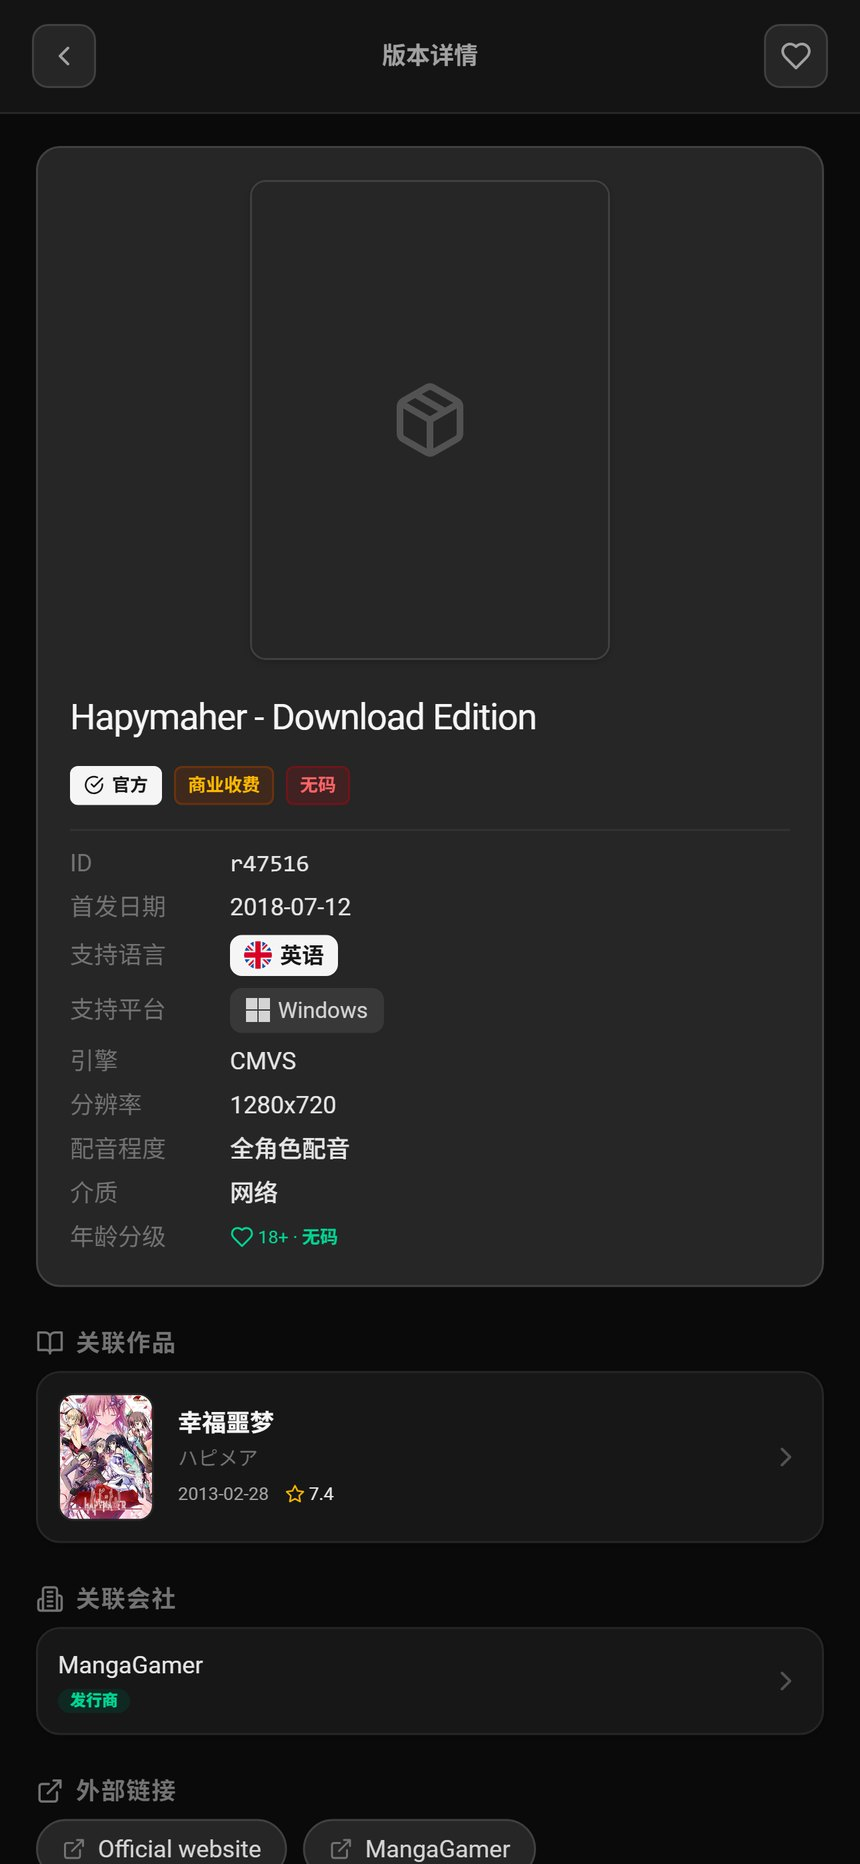
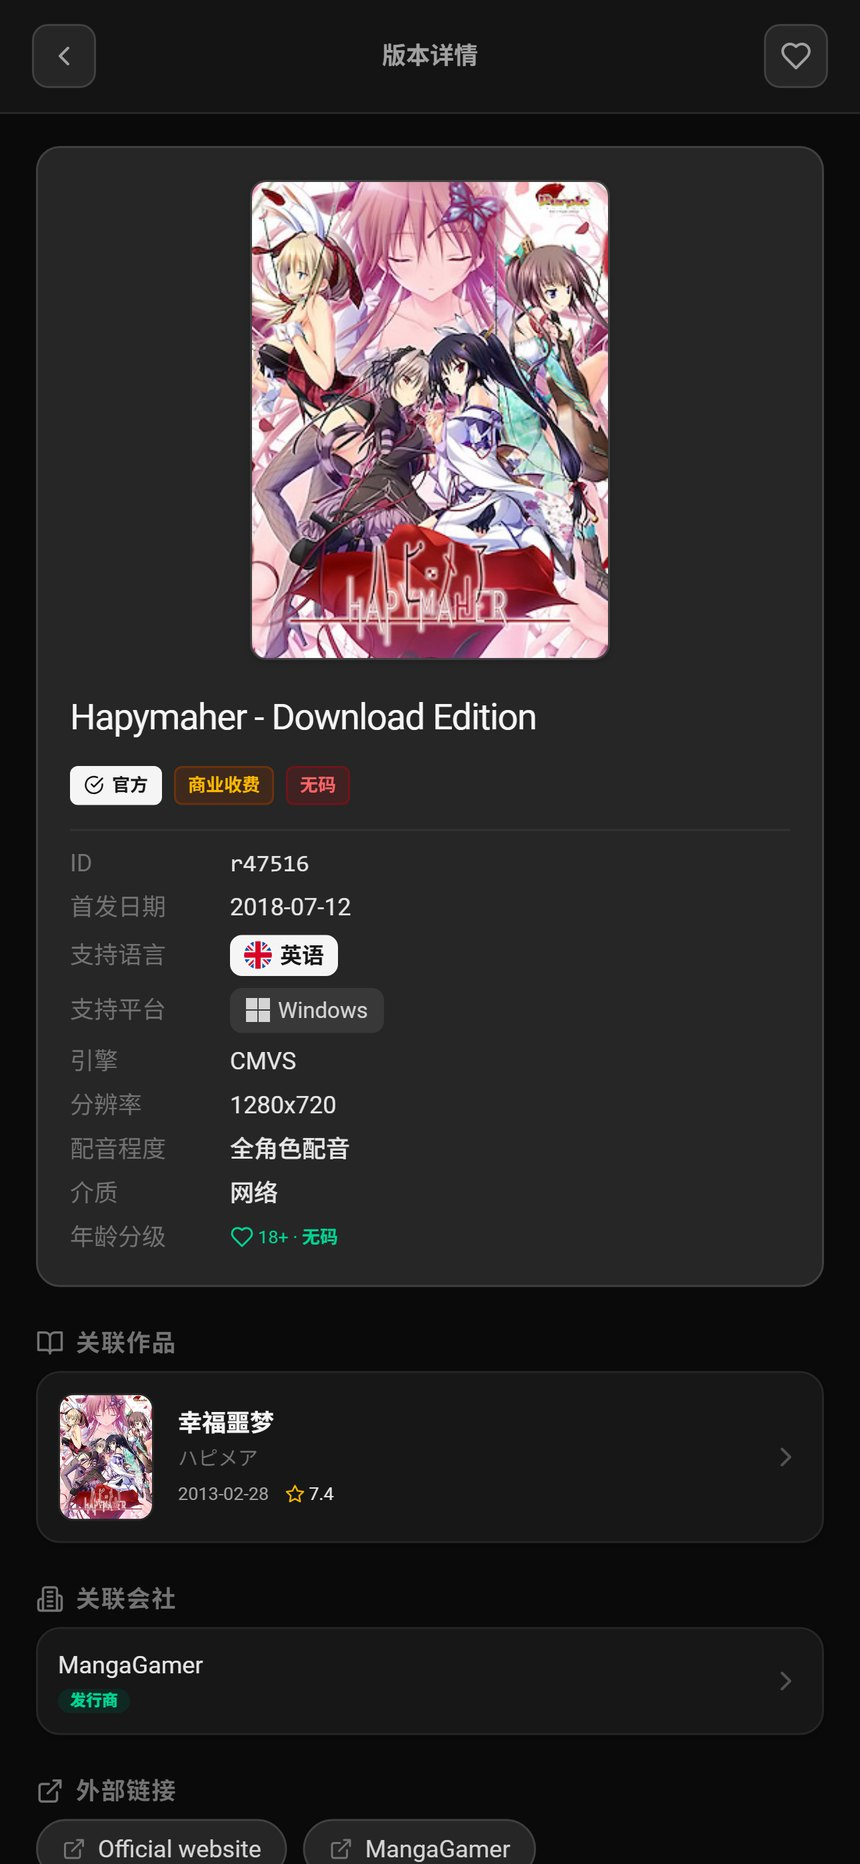
feat(privacy): 移除匿名使用统计上报 + 补齐仓库文档与截图
## 移除匿名统计

`src/pages/Home.vue` 此前每次启动都会向第三方 Worker
（workers.hekinyan.vip/v1/active）POST 安装 ID、设备型号、系统版本、
UA、userAgentData 等字段，且没有开关。本次彻底删除：

- 常量 ACTIVE_REPORT_URL / ACTIVE_REPORT_DATE_KEY / INSTALL_ID_KEY
- getOrCreateInstallId() / getAppVersion() / buildActivePayload()
- reportActiveIfNeeded() 及其在 onMounted 里的调用
- 因此失效的 @capacitor/app、@capacitor/core 导入

getTodayStr() 刻意保留：它还被「已保存搜索」的 today 日期筛选使用
（Home.vue:85/89/118/122），不是上报专用。

dist 与 release APK 里 v1/active、vndb_install_id 均已 0 命中。

## 文档与截图

- README 补齐 1.0.5/1.0.6 的新功能：评分统计选项卡、收藏状态图标与
  配色、会社关联会社、版本语言旗帜与折叠分组、时长投票回填与
  「大家的投票」、两级缓存（内存 + IndexedDB）
- README 新增「隐私」章节，逐项列出会连接的服务与触发时机；如实保留
  workers.hekinyan.vip/v1/translate（用户主动点翻译时才发请求）
- README「从旧版升级」补充签名变更说明
- CHANGELOG 新增 [未发布] 段，并删掉 1.0.4 那句「计划下个版本移除」
  与 1.0.3 的「已知问题」两条（前者已实现，后者已修复）
- 截图重拍（仪表盘改为压缩后的平台数据小框、版本详情展示封面回退），
  新增搜索历史与版本列表两张
- docs/screenshots/README.md 补充拍摄脚本骨架与五条踩坑记录

Changed region(s): [[0.2721, 0.0933, 0.7256, 0.3734]]

diff --git a/src/pages/Home.vue b/src/pages/Home.vue
@@ -6,8 +6,6 @@ import { useRouter } from 'vue-router'
 import { useI18n } from 'vue-i18n'
 import { Icon } from '@iconify/vue'
 import AppHeader from '@/components/AppHeader.vue'
-import { App } from '@capacitor/app'
-import { Capacitor } from '@capacitor/core'
 import { PLACEHOLDER_ICONS } from '@/icons/icon-names'
 import { getStats, getReleaseList, getRandomVn, getVnList, getCharacterList, getProducerList, getStaffList } from '@/api/vndb'
 import { usePrivacy, getImageNsfwLevel } from '@/composables/usePrivacy'
@@ -57,88 +55,9 @@ const loadingSections = ref({
 const savedSearchResults = ref({})
 const savedSearchLoading = ref({})
 
-const ACTIVE_REPORT_URL = 'https://workers.hekinyan.vip/v1/active'
-const ACTIVE_REPORT_DATE_KEY = 'vndb_active_report_date'
-const INSTALL_ID_KEY = 'vndb_install_id'
-
 function getTodayStr() {
   const d = new Date()
   return `${d.getFullYear()}-${String(d.getMonth() + 1).padStart(2, '0')}-${String(d.getDate()).padStart(2, '0')}`
-}
-
-function getOrCreateInstallId() {
-  let installId = localStorage.getItem(INSTALL_ID_KEY)
-  if (!installId) {
-    installId = crypto.randomUUID()
-    localStorage.setItem(INSTALL_ID_KEY, installId)
-  }
-  return installId
-}
-
-async function getAppVersion() {
-  try {
-    const info = await App.getInfo()
-    return info.version || info.build || 'unknown'
-  } catch {
-    return 'web'
-  }
-}
-
-async function buildActivePayload() {
-  const installId = getOrCreateInstallId()
-  const reportDate = getTodayStr()
-  const platform = Capacitor.getPlatform()
-  const appVersion = await getAppVersion()
-  const userAgent = navigator.userAgent || ''
-  const uaData = navigator.userAgentData
-
-  return {
-    installId,
-    date: reportDate,
-    runtime: {
-      platform,
-      isNativePlatform: Capacitor.isNativePlatform(),
-      userAgent,
-      brands: uaData?.brands || [],
-      mobile: uaData?.mobile ?? /Android|iPhone|iPad|iPod/i.test(userAgent)
-    },
-    app: {
-      version: appVersion
-    },
-    device: {
-      osVersion: uaData?.platform || navigator.platform || 'unknown',
-      model: navigator.vendor || navigator.platform || 'unknown',
-      language: navigator.language || 'unknown'
-    }
-  }
-}
-
-async function reportActiveIfNeeded() {
-  const today = getTodayStr()
-  const lastReportedDate = localStorage.getItem(ACTIVE_REPORT_DATE_KEY)
-
-  if (lastReportedDate === today) {
-    return
-  }
-
-  try {
-    const payload = await buildActivePayload()
-    const response = await fetch(ACTIVE_REPORT_URL, {
-      method: 'POST',
-      headers: {
-        'Content-Type': 'application/json'
-      },
-      body: JSON.stringify(payload)
-    })
-
-    if (!response.ok) {
-      throw new Error(`HTTP ${response.status}`)
-    }
-
-    localStorage.setItem(ACTIVE_REPORT_DATE_KEY, today)
-  } catch (err) {
-    console.error('激活上报失败:', err)
-  }
 }
 
 // 从保存的搜索条件重建 API 过滤器
@@ -379,8 +298,6 @@ function deduplicateCharacters(chars) {
 
 onMounted(async () => {
   const today = new Date().toISOString().split('T')[0]
-
-  reportActiveIfNeeded()
 
   // 1. 获取统计数据
   getStats().then(res => {

diff --git a/README.md b/README.md
@@ -19,9 +19,13 @@ VNDB（Visual Novel Database）的 Android 第三方客户端。基于 **Vue 3 +
 | --- | --- | --- |
 | ![](docs/screenshots/home.jpg) | ![](docs/screenshots/vn-detail.jpg) | ![](docs/screenshots/cross-search.jpg) |
 
-| 全局搜索 | 角色详情 | 版本详情 | 设置 |
+| 全局搜索 | 搜索历史 | 角色详情 | 版本详情 |
 | --- | --- | --- | --- |
-| ![](docs/screenshots/search.jpg) | ![](docs/screenshots/character-detail.jpg) | ![](docs/screenshots/release-detail.jpg) | ![](docs/screenshots/settings.jpg) |
+| ![](docs/screenshots/search.jpg) | ![](docs/screenshots/search-history.jpg) | ![](docs/screenshots/character-detail.jpg) | ![](docs/screenshots/release-detail.jpg) |
+
+| 版本列表（语言旗帜 + 标题上下互换） | 设置 |
+| --- | --- |
+| ![](docs/screenshots/release-list.jpg) | ![](docs/screenshots/settings.jpg) |
 
 ---
 
@@ -29,12 +33,14 @@ VNDB（Visual Novel Database）的 Android 第三方客户端。基于 **Vue 3 +
 
 ### 数据浏览
 
-- **作品（VN）**：封面、简介、标签、角色、职员、版本、评分分布、游玩时长
+- **作品（VN）**：封面、简介、标签、角色、职员、版本、游玩时长
+- **评分统计选项卡**：评分分布横向柱状图（10 分在上）、票数 / 平均分 / 中位数 / 排名与最近投票。Kana API 不提供分布数据，改为在内置 WebView 里解析 vndb.org 作品页的 `article#stats`，结果缓存 6 小时
 - **角色**：立绘、特征、出演作品、生日、三围
-- **会社 / 职员**：作品列表、参与角色
-- **版本（Release）**：发售日期、平台、语言、引擎、分辨率、外部链接
+- **会社 / 职员**：作品列表、参与角色；会社页另有**关联会社**弹卡（子公司、品牌等）与简介折叠
+- **版本（Release）**：发售日期、平台、语言、引擎、分辨率、外部链接；语言用**国旗 SVG** 标识，列表按语言**折叠分组**（中文优先、日语其次）
 - 六个维度的搜索页（作品 / 版本 / 角色 / 职员 / 会社 / 标签），支持标签与特征的多级筛选、剧透等级过滤、性内容过滤
 - **已保存搜索**：把常用筛选条件存下来，在仪表盘一键复用
+- **收藏状态可视化**：每种状态配独立图标与颜色（游玩中绿 `play`、已通关蓝 `check-circle`、搁置中琥珀 `pause`、已弃坑灰 `x-circle`、想玩紫 `star`、黑名单红 `ban`、已评分琥珀 `award`），列表、瀑布流、紧凑列表、标签页与详情页统一
 
 ### 全局搜索
 
@@ -50,6 +56,8 @@ VNDB（Visual Novel Database）的 Android 第三方客户端。基于 **Vue 3 +
 | 标签 / 特征 | 直接命中时出现 |
 
 中文名搜索通过「先用 `search` 命中 VN，再用 VN id 反查角色 / 职员」两层查询实现，因此「幸福噩梦」这类中文译名也能定位到 `v10957` 及其会社 `Purple software`。
+
+输入框下方还会展示**搜索历史**（最近 20 条，`vndb_search_history`），点一下即填入并重新搜索。
 
 ### 跨站搜索
 
@@ -78,12 +86,26 @@ VNDB（Visual Novel Database）的 Android 第三方客户端。基于 **Vue 3 +
 - **深浅色主题**、可自定义背景图、可自定义标题显示顺序（原文 / 罗马音 / 中译）
 - **隐私与过滤**：18+ 内容、截图过滤、剧透等级
 - **本地收藏**与 VNDB 账号同步（API Token 登录）
-- **游玩时长投票**：本地弹窗填写，直接同步到 VNDB
+- **游玩时长投票**：本地弹窗填写，直接同步到 VNDB；打开前先读取你已有的投票记录回填，另有「大家的投票」页签可看其他人的时长、速度与备注。设置页提供「刷新我的游玩时长」，一次性把 VNDB 上的记录同步到本地
 - **图片加载优化**：缩略图优先 + 6 并发预热队列 + 缩略图 404 自动回退原图 + 15s 超时兜底
+- **两级缓存**：内存缓存 + IndexedDB 持久化（`vndbest_cache_db`），接口响应按 TTL 复用，同一请求并发时合并为一次
 - **搜索历史**：「搜索」页记住最近 20 条关键词，可单条删除或一键清空
 - **版本封面回退**：release 自己没有封面时（免费 / 补丁 / 同人作品），自动改用关联作品的封面，不再只显示占位图标
 - **跳转设置**：跨站搜索与版本外链的浏览器打开方式分别配置
-- **离线提示**、返回键双击退出、错误态与重试
+- **离线提示**、返回键双击退出、错误态与重试、加载骨架屏
+
+### 隐私
+
+应用只与你主动访问的服务通信：
+
+| 目标 | 时机 |
+| --- | --- |
+| `api.vndb.org` | 浏览作品、角色、版本等数据；登录后同步收藏与时长投票 |
+| `t.vndb.org` | 加载封面与立绘图片 |
+| `workers.hekinyan.vip/v1/translate` | **仅在你主动点击「翻译」按钮时**，把该段日文简介发去机器翻译 |
+| 跨站搜索目标站点 | 仅在你点击对应站点时打开 |
+
+**没有**任何埋点、崩溃上报或匿名统计。此前的启动上报（`workers.hekinyan.vip/v1/active`）已在 1.0.5 开发分支中移除，`vndb_install_id` / `vndb_active_report_date` 也不再写入本地存储。
 
 ---
 
@@ -95,7 +117,10 @@ VNDB（Visual Novel Database）的 Android 第三方客户端。基于 **Vue 3 +
 - 包名 `com.vndb`
 - release 包已开启 R8 混淆与资源裁剪，体积约 **3 MB**
 
-> **从旧版升级**：1.0.3 之前的版本包名是 `com.cyancat.vndbest`，与当前包名不同，需要先卸载旧版再安装。
+> **从旧版升级**
+>
+> - **包名变更**：1.0.3 及更早版本的包名是 `com.cyancat.vndbest`，与当前 `com.vndb` 不同，必须卸载旧版再装。
+> - **签名变更**：1.0.5 及更早版本的 APK 由 CI runner 的临时密钥签名，与当前随仓库携带的固定密钥不同，从这些版本升级到 1.0.6+ 也需要先卸载。装过 1.0.6 之后，后续版本可正常覆盖升级。
 
 ---
 
@@ -152,7 +177,7 @@ npx cap open ios
 src/
 ├── api/vndb.js              VNDB Kana API 封装（超时、429 限流、错误映射）
 ├── components/              可复用组件（列表、筛选面板、骨架屏、错误态、年龄标识…）
-├── composables/             组合式函数（主题、隐私、收藏、图片加载、剪贴板、已保存搜索…）
+├── composables/             组合式函数（主题、隐私、收藏、图片加载、剪贴板、已保存搜索、搜索历史、收藏状态…）
 ├── i18n/locales/            中 / 英 / 日 语言包 + 标签与特征词典
 ├── icons/                   Iconify 图标注册与名称映射
 ├── pages/                   页面（仪表盘、搜索、详情、设置…）
@@ -163,7 +188,11 @@ src/
     ├── touchgalSearch.js    TouchGal 自动填词注入脚本
     ├── vndbTranslator.js    中文化脚本注入
     ├── imagePrefetch.js     图片预热队列
+    ├── releaseImage.js      版本封面回退到关联作品
+    ├── cacheManager.js      内存 + IndexedDB 两级缓存
     ├── lengthVote.js        游玩时长投票
+    ├── vnStats.js           评分分布抓取（隐藏 WebView 解析 vndb.org）
+    ├── producerInfo.js      会社关联会社抓取（同上）
     ├── cookieKeeper.js      登录态持久化
     ├── errorMessage.js      API 错误消息本地化
     └── ulistLabels.js       收藏标签本地化

diff --git a/CHANGELOG.md b/CHANGELOG.md
@@ -2,6 +2,19 @@
 
 本文件记录本 fork（[isTurn/vndbest](https://github.com/isTurn/vndbest)）相对上游的功能演进。格式参考 [Keep a Changelog](https://keepachangelog.com/zh-CN/1.1.0/)，版本号遵循 [语义化版本](https://semver.org/lang/zh-CN/)。
 
+## [未发布]
+
+### 移除
+
+- **匿名使用统计上报**：此前每次启动会向第三方 Worker（`workers.hekinyan.vip/v1/active`）POST 安装 ID、设备型号、系统版本、UA 等信息，且没有开关。现已彻底删除上报逻辑与相关常量，`vndb_install_id`、`vndb_active_report_date` 两个 `localStorage` 键也不再写入。应用不再有任何联网行为发生在 VNDB API 之外
+
+### 文档
+
+- README 补齐 1.0.5 / 1.0.6 新增功能的说明：评分统计选项卡、收藏状态图标与配色、会社关联会社、版本语言旗帜与折叠分组、游玩时长投票回填与「大家的投票」、两级缓存
+- README 新增**隐私**章节，逐项列出应用会连接的服务与触发时机
+- README「从旧版升级」补充签名变更说明（1.0.5 及更早的 APK 由 CI 临时密钥签名，升级到 1.0.6+ 需先卸载）
+- 截图重拍并新增两张：搜索历史、版本列表；`docs/screenshots/README.md` 补充拍摄脚本骨架与五条踩坑记录
+
 ## [1.0.6] - 2026-10-19
 
 签名对齐修复版。1.0.5 虽然把 keystore 放进了仓库，但 CI 实际仍用 runner 自带的 `~/.android/debug.keystore` 签名，发布包的证书指纹与本地包不同。本版把 CI 的签名来源改成显式指定仓库内 keystore，并让构建在指纹不符时直接失败。
@@ -60,8 +73,6 @@
 - **设置页「VNDB 页面中文化」开关的圆点跑到轨道外**：圆点用 `position:absolute` 却没给 `left`，浏览器按按钮的默认 `text-align:center` 定位（约 12px），再叠加 `translate-x-[22px]` 后右边缘约 52px，超出 44px 宽的轨道；改为 `left-0.5` 锚定 + `translate-x-[20px]`
 - **截图大图查看器打开时会从第一张快速翻页到目标张**：容器带 `scroll-smooth`，CSS `scroll-behavior:smooth` 对直接赋值 `scrollLeft` 同样生效；且弹层刚挂载时 `clientWidth` 可能为 0，导致首次定位停在第一张。改为瞬时定位 + 容器宽度未就绪时按帧重试
 
-> 注：匿名使用统计上报（`src/pages/Home.vue` 的 `ACTIVE_REPORT_URL`）目前仍在代码中，尚无开关，计划在下个版本移除。
-
 ---
 
 ## [1.0.3] - 2026-10-17
@@ -81,11 +92,6 @@
 - 描述 BBCode 未转义导致的 XSS
 - i18n 键断链、路由缺少 catch-all
 - 图片加载优化：缩略图优先 + 低并发预热队列 + 超时回退原图
-
-### 已知问题
-
-- 角色与职员立绘在 VNDB 侧没有缩略图变体（`ch/`、`st/` 路径的 `.t` 后缀返回 404），只能走原图
-- 顶栏在部分 Android 15+ 机型上仍可能被状态栏遮挡
 
 ---
 
